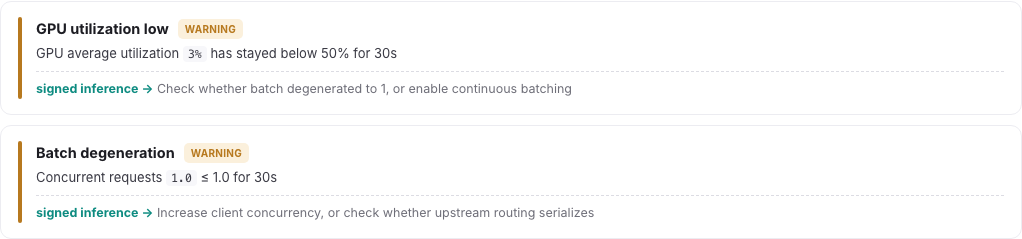
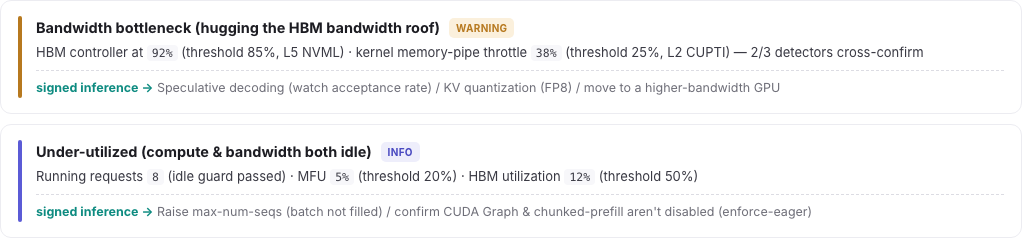
fix(readme): 诊断示例对齐现行 4 瓶颈规则 —— 旧规则(GPU 利用率偏低/batch 退化)已不存在
现行引擎只有 A 双低 / B 带宽 / C 算力 / D 容量四条事实规则(diagnosis_rules.py)，
showcase 与 README 示例还在展示旧引擎的「GPU 利用率偏低 / batch 退化」：

- docs/index.html：diag 卡片换为 B 带宽瓶颈(warning) + A 双低(info)，
  事实行用真实阈值(HBM>85% / MFU<20% / 带宽<50%)与跨层手段(L5 NVML / L2 CUPTI)，
  处方取自规则原文；中英同步
- _promo/diag-cards-{zh,en}.png：重拍(1022×239)
- README / README.en：引言点名四类瓶颈，alt 文本同步
- demo.py：合成数据从「高 padding+低 MFU」(旧规则)换为「KV 94%+每步抢占」，
  实测触发 D 容量瓶颈 CRITICAL(kv:avg=0.94 / preempted:sum=15 双手段命中)；
  落盘指引从 duckdb diagnoses 表(已不存在)改为 diagnoses.jsonl/metrics.jsonl

diff --git a/docs/index.html b/docs/index.html
@@ -662,22 +662,22 @@ footer{border-top:1px solid var(--border);padding:48px 0 60px;margin-top:40px}
         </div>
 
         <h4 style="font-size:14px;font-weight:700;color:var(--text-strong);margin:28px 0 4px" data-i18n="diag.h">诊断结论 · 事实 + 署名推断</h4>
-        <div class="ph-sub" style="font-size:12px;color:var(--muted-2);margin-bottom:6px" data-i18n="diag.sub">规则引擎默认每 1s 评估一次。下例展示规则被触发时的输出形态（本次压测系统健康，无告警）。</div>
+        <div class="ph-sub" style="font-size:12px;color:var(--muted-2);margin-bottom:6px" data-i18n="diag.sub">内置 4 类瓶颈（双低 / 带宽 / 算力 / 容量），每类多条跨层检测手段（L1 实测 / L2 内核 stall / L3 调度态 / L5 NVML）—— 任一命中即触发，多条命中即交叉互证。下例展示规则被触发时的输出形态（本次压测系统健康，无告警）。</div>
         <div class="diag-list">
           <div class="diag warning">
             <div class="sev"></div>
             <div class="body">
-              <div class="top"><span class="ttl" data-i18n="diag.e1.t">GPU 利用率偏低</span><span class="lvl">warning</span></div>
-              <div class="fact" data-i18n="diag.e1.f">GPU 平均利用率 <code>3%</code> 持续低于 50% 已 30s</div>
-              <div class="rx"><b data-i18n="diag.infer">署名推断 →</b> <span data-i18n="diag.e1.r">检查 batch 是否退化为 1，或开启连续 batching</span></div>
+              <div class="top"><span class="ttl" data-i18n="diag.e1.t">带宽瓶颈（逼近显存带宽上限）</span><span class="lvl">warning</span></div>
+              <div class="fact" data-i18n="diag.e1.f">HBM 控制器占用 <code>92%</code>（阈值 85%，L5 NVML）· 内核访存管线 throttle <code>38%</code>（阈值 25%，L2 CUPTI）—— 2/3 条手段交叉命中</div>
+              <div class="rx"><b data-i18n="diag.infer">署名推断 →</b> <span data-i18n="diag.e1.r">投机解码（关注接受率，避免转为计算受限）／ KV 量化（FP8）／ 升级更高带宽 GPU</span></div>
             </div>
           </div>
-          <div class="diag warning">
+          <div class="diag info">
             <div class="sev"></div>
             <div class="body">
-              <div class="top"><span class="ttl" data-i18n="diag.e2.t">batch 退化</span><span class="lvl">warning</span></div>
-              <div class="fact" data-i18n="diag.e2.f">并发请求数 <code>1.0</code> ≤ 1.0 已 30s</div>
-              <div class="rx"><b data-i18n="diag.infer">署名推断 →</b> <span data-i18n="diag.e2.r">增加客户端并发，或检查上游路由是否串行化</span></div>
+              <div class="top"><span class="ttl" data-i18n="diag.e2.t">双低（算力、带宽均有余量）</span><span class="lvl">info</span></div>
+              <div class="fact" data-i18n="diag.e2.f">在途请求 <code>8</code>（空载守卫通过）· MFU <code>5%</code>（阈值 20%）· HBM 占用 <code>12%</code>（阈值 50%）—— 算力、带宽均有余量</div>
+              <div class="rx"><b data-i18n="diag.infer">署名推断 →</b> <span data-i18n="diag.e2.r">提高 max-num-seqs（并发未填满）／ 确认 CUDA Graph、chunked-prefill 未被 enforce-eager 关闭</span></div>
             </div>
           </div>
         </div>
@@ -1211,10 +1211,10 @@ const I18N_EN = {
   "lat.h":"Latency over time · TTFT / TPOT","lat.sub":"p50 / p99 trend, bucketed (4s/bucket) over the bench window",
   "lat.note":'This host follows the production-default CUDA graph path; diagnostics keep <code style="font-family:var(--mono)">--enable-mfu-metrics</code>, so MFU / bandwidth / Roofline can come directly from vLLM runtime metrics.',
   "diag.h":"Diagnoses · fact + signed inference",
-  "diag.sub":"The rule engine evaluates every 1s by default. The examples below show the output shape when a rule fires (this bench was healthy — no alerts).",
+  "diag.sub":"Built-in diagnoses cover 4 bottlenecks (under-utilized / bandwidth / compute / capacity), each with multiple cross-layer detectors (L1 measured / L2 kernel stall / L3 scheduler state / L5 NVML) — any one hit fires the rule; several hits cross-confirm. The examples below show the output shape when a rule fires (this bench was healthy — no alerts).",
   "diag.infer":"signed inference →",
-  "diag.e1.t":"GPU utilization low","diag.e1.f":'GPU average utilization <code>3%</code> has stayed below 50% for 30s',"diag.e1.r":"Check whether batch degenerated to 1, or enable continuous batching",
-  "diag.e2.t":"Batch degeneration","diag.e2.f":'Concurrent requests <code>1.0</code> ≤ 1.0 for 30s',"diag.e2.r":"Increase client concurrency, or check whether upstream routing serializes",
+  "diag.e1.t":"Bandwidth bottleneck (hugging the HBM bandwidth roof)","diag.e1.f":'HBM controller at <code>92%</code> (threshold 85%, L5 NVML) · kernel memory-pipe throttle <code>38%</code> (threshold 25%, L2 CUPTI) — 2/3 detectors cross-confirm',"diag.e1.r":"Speculative decoding (watch acceptance rate) / KV quantization (FP8) / move to a higher-bandwidth GPU",
+  "diag.e2.t":"Under-utilized (compute & bandwidth both idle)","diag.e2.f":'Running requests <code>8</code> (idle guard passed) · MFU <code>5%</code> (threshold 20%) · HBM utilization <code>12%</code> (threshold 50%)',"diag.e2.r":"Raise max-num-seqs (batch not filled) / confirm CUDA Graph & chunked-prefill aren\'t disabled (enforce-eager)",
   "ker.note":'<b>This is exactly what you\'d open Nsight Compute for — but always-on, in your dashboard, with a conclusion attached.</b> Kernel-level capture needs the full integration (<code style="font-family:var(--mono)">pping-vllm serve</code>, PC Sampling via CUPTI injection). Below are <b>real hotspots captured live on runw\'s RTX 5060 Ti (Blackwell)</b> — 8.26M samples in one window.',
   "ker.h":"GPU kernel time share · top hotspots + operator class",
   "ker.sub":"descending by GPU time · each kernel expands to a dual-track \"deepest hotspot\" (source line / SASS offset)",

diff --git a/examples/embedded/demo.py b/examples/embedded/demo.py
@@ -1,19 +1,19 @@
-"""端到端 demo — 不需要真 vLLM/GPU，喂合成 stats 触发 marquee 诊断规则。
+"""端到端 demo — 不需要真 vLLM/GPU，喂合成 stats 触发诊断规则。
 
 跑法：
     python examples/embedded/demo.py
 
-预期输出（约 8 秒后开始出现）：
-    [pping-lang] [!] WARNING: CUDA graph padding 过高
-      CUDA graph padding 比例 70%, 约 70% 的 GPU 算力浪费在补 0
-      -> 调小 max_num_seqs 或开启更细粒度的 cudagraph capture（PIECEWISE 模式）
+预期输出（flush 1s + 评估 1s 后即出现）：
+    [pping-lang] [X] CRITICAL: 容量瓶颈(KV 耗尽并触发抢占)
+      [推断] 显存无法容纳 KV → 并发受限 → 触发抢占。V1 抢占为纯重算(丢弃 KV、从头 re-prefill), …
+      [建议] KV 量化(FP8)/ 降低 max-model-len / KV offload / 降低 max-num-seqs。
 
-    [pping-lang] [!] WARNING: MFU 偏低（计算资源浪费）
-      MFU = 5% < 20%（理论峰值的小部分都没跑到）
-      -> 检查 padding ratio / batch 大小 / dtype（应为 bf16/fp16）
+(命中 D 规则的两条 L3 调度态手段：KV 池 94% ≥ 90% + 已发生抢占 —— 该层不依赖
+NVML/CUPTI，所以无 GPU 机器也能演示。A/B/C 需要 L1 实测或 L2 内核 stall，见 README。)
 
-完成后查询 DuckDB 看完整数据：
-    duckdb ./demo.duckdb -c "SELECT rule_id, severity, message FROM diagnoses;"
+完成后查看落盘数据（jsonl，与 demo DB 同目录）：
+    cat "$TMPDIR/diagnoses.jsonl"    # 诊断（rule_id / severity / message / context）
+    head -2 "$TMPDIR/metrics.jsonl"  # 指标洪流
 """
 from __future__ import annotations
 
@@ -52,7 +52,7 @@ DEMO_GPU_PEAK = GPUPeak(bf16_tflops=989.0, mem_bw_gbs=3350.0)
 
 
 def make_unhealthy_scheduler_stats(step: int) -> SimpleNamespace:
-    """合成 SchedulerStats: 高 padding (~70%) + 低 MFU (~5%)。"""
+    """合成 SchedulerStats: KV 池 94%(≥90% 压力线) + 低 MFU (~5%)。"""
     # cudagraph: 1000 padded tokens, 300 unpadded → 70% padding ratio
     cudagraph = SimpleNamespace(
         num_unpadded_tokens=300,
@@ -60,7 +60,7 @@ def make_unhealthy_scheduler_stats(step: int) -> SimpleNamespace:
         num_paddings=10,
         runtime_mode="PIECEWISE",
     )
-    # perf: ~5% MFU 假设 step 间隔 ~100ms
+    # perf: ~5% MFU 假设 step 间隔 ~100ms(被抢占反复打断的 decode,算力自然跑不满)
     #   target: flops / (peak_flops * dt) ≈ 0.05
     #   peak_flops = 989e12, dt = 0.1s → flops_per_step = 0.05 * 989e12 * 0.1 ≈ 4.9e12
     perf = SimpleNamespace(
@@ -74,7 +74,7 @@ def make_unhealthy_scheduler_stats(step: int) -> SimpleNamespace:
         num_waiting_reqs=2,
         num_skipped_waiting_reqs=0,
         current_wave=step // 10,
-        kv_cache_usage=0.45,
+        kv_cache_usage=0.94,
         prefix_cache_stats=SimpleNamespace(queries=100, hits=15),
         kv_cache_eviction_events=[],
         spec_decoding_stats=None,
@@ -91,7 +91,7 @@ def make_iteration_stats(step: int) -> SimpleNamespace:
         prompt_token_stats=SimpleNamespace(
             total=200, local_cache_hit=30, external_kv_transfer=0,
         ),
-        num_preempted_reqs=0,
+        num_preempted_reqs=1 + step % 3,   # 每步都有抢占(重算式) → D 规则第二条手段
         num_corrupted_reqs=0,
         time_to_first_tokens_iter=[0.15, 0.18],
         inter_token_latencies_iter=[0.025, 0.026],
@@ -191,11 +191,11 @@ def _seed_demo_bench_runs(db_path: Path) -> None:
 
 def main() -> int:
     print("=" * 70)
-    print("pping-lang demo — synthetic vLLM stats with high padding + low MFU")
+    print("pping-lang demo — synthetic vLLM stats with KV pressure + preemption")
     print("=" * 70)
     print(f"DB:       {DEMO_DB}")
     print(f"Duration: {DEMO_DURATION_S}s, step every 100ms")
-    print("Expecting marquee rules to fire after ~6-8s of accumulated data...\n")
+    print("Expecting rule D (容量瓶颈) to fire after ~2-4s (flush 1s + eval 1s)...\n")
 
     plugin = PpingLangStatLogger(vllm_config=None, engine_index=0)
     plugin.log_engine_initialized()
@@ -232,7 +232,7 @@ def main() -> int:
     if plugin._diag_engine is not None:
         print(f"Rule eval ran {plugin._diag_engine.eval_count} times, "
               f"fired {plugin._diag_engine.fire_count} times.")
-    print(f"Inspect data: duckdb {DEMO_DB} -c 'SELECT * FROM diagnoses;'")
+    print(f"Inspect data: {DEMO_DB.parent / 'diagnoses.jsonl'} (metrics.jsonl alongside)")
     print("=" * 70)
     return 0
 

diff --git a/README.en.md b/README.en.md
@@ -36,9 +36,9 @@ When a vLLM service is slow, what you actually want to know is: which kernel is 
 
 pping-lang turns Nsight-grade depth into an always-on stethoscope for vLLM: plain `vllm serve` after `pip install` gets you model-level diagnoses (see below); swap in `pping-vllm serve` to add always-on kernel-level evidence — no service stop, conclusions attached.
 
-Diagnoses (rule name = the measured fact; prescriptions are listed separately as attributed inference):
+Diagnoses (rule name = the measured fact — one of four bottlenecks: under-utilized / bandwidth / compute / capacity, each cross-confirmed by multiple cross-layer detectors; prescriptions are listed separately as attributed inference):
 
-[![Diagnosis example — GPU utilization low / batch degeneration](_promo/diag-cards-en.png)](https://leon-hf.github.io/pping-lang/)
+[![Diagnosis example — bandwidth bottleneck / under-utilized (2 of the 4 bottlenecks)](_promo/diag-cards-en.png)](https://leon-hf.github.io/pping-lang/)
 
 The Roofline view comes with an automatic verdict and optimization paths:
 
